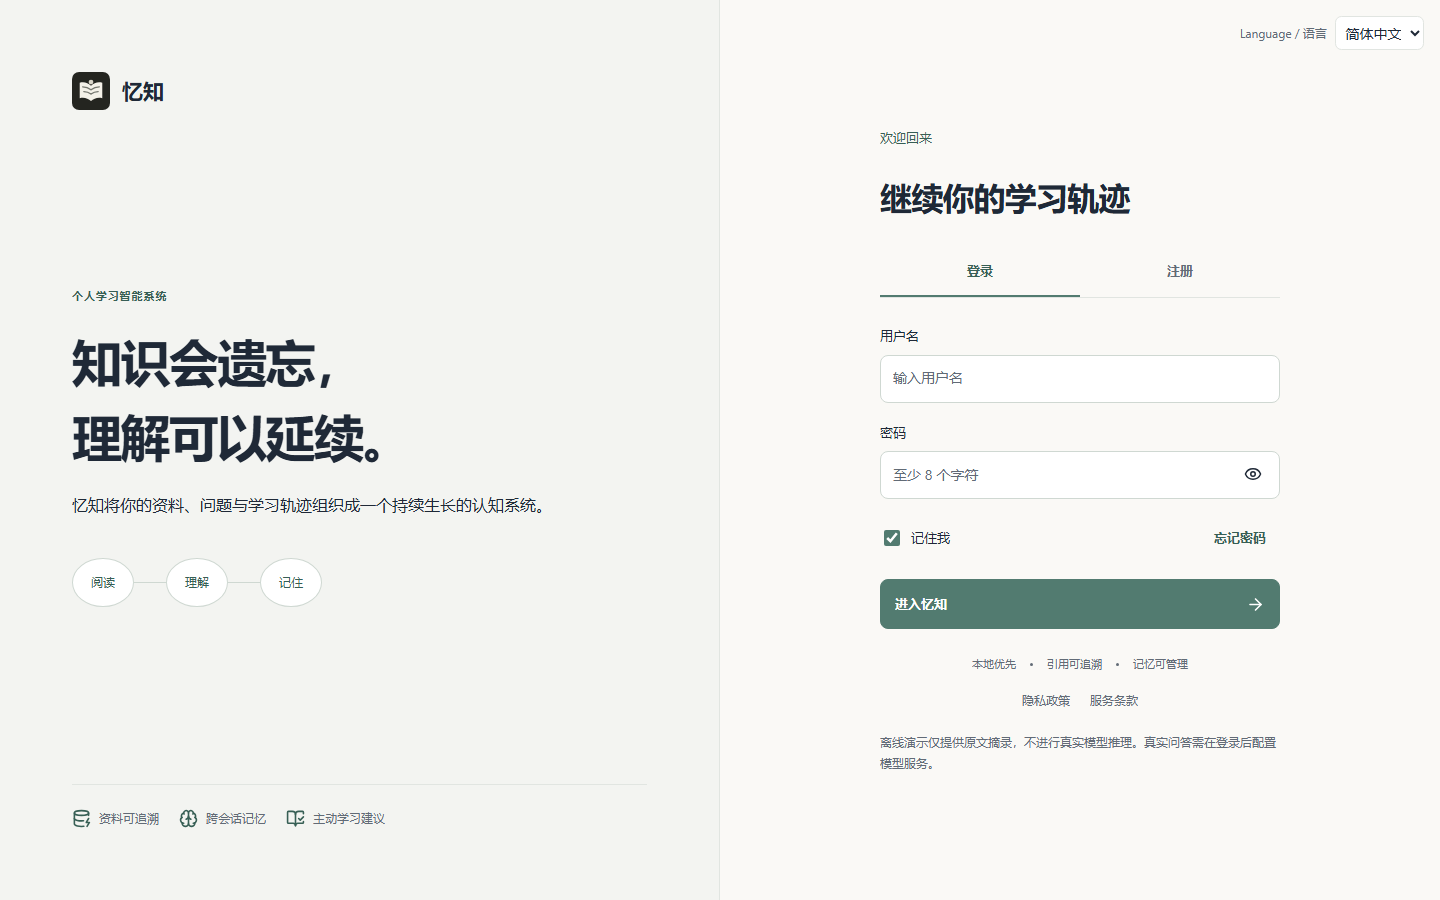
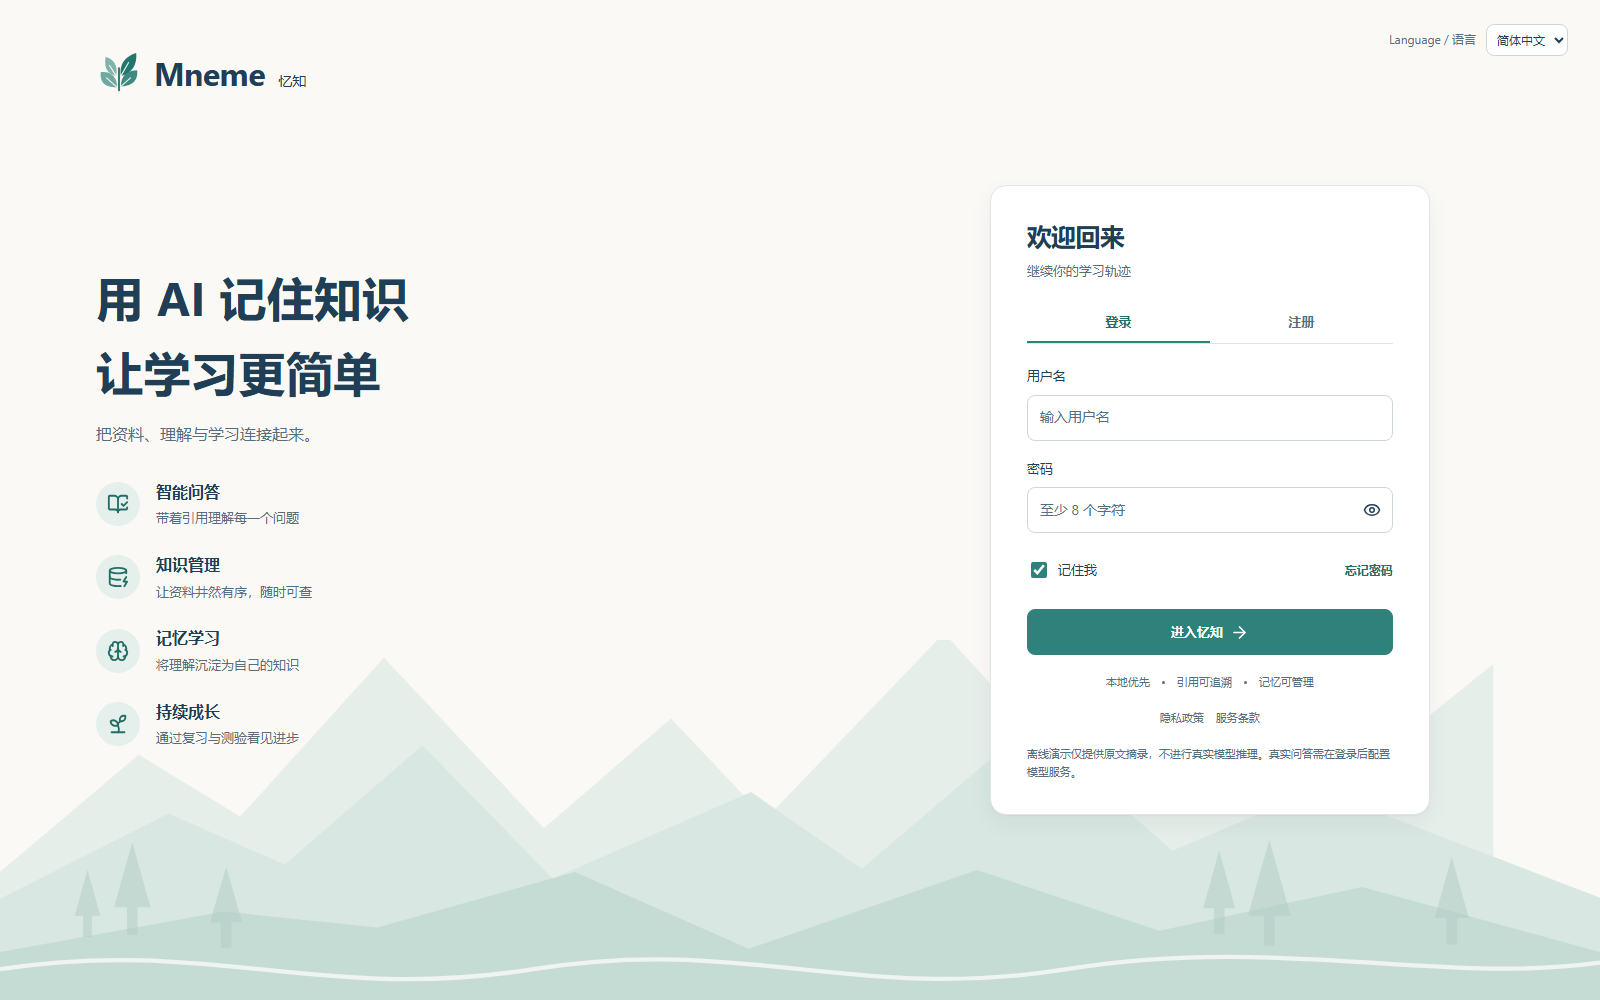
docs: record unified interface acceptance and refresh previews

diff --git a/docs/UNIFIED_UI_ACCEPTANCE_20261030.md b/docs/UNIFIED_UI_ACCEPTANCE_20261030.md
@@ -1,0 +1,91 @@
+# 2026-10-30 统一界面验收记录
+
+本批次依据《Mneme 统一界面设计与源码修改实施总方案》及个人资料、备份恢复、管理员运维、法律页总览图实施。按用户最终确认，图片中的暖白背景与青绿主色优先于正文蓝色建议。原始 DOCX、图片和用户审查记录不改写。
+
+## 页面与参考图对应
+
+| 页面 | 已落实结构 | 保留的真实能力 |
+| --- | --- | --- |
+| 登录 / 注册 / 重置 | 左侧品牌、四项功能说明、低饱和山景；右侧白色认证卡、登录注册标签 | 登录、长期会话、密码显示、重置邮件；注册确认密码与协议确认；失败后恢复按钮并保留输入 |
+| 对话 / 阅读工作台 | 导航、历史、聊天、右侧引用；两页均依第二份文档对话图 | 真实引用、历史会话、流式回答、停止与重试；工作台工具菜单保留阅读、检索调试、分支对比 |
+| 知识库 | 紧凑标题与工具栏、文件表格、右侧文档预览、最近活动 | 文件上传、版本、解析、OCR、筛选、删除及 PDF 实页预览 |
+| 记忆 / 复习 / 测验 | 独立导航；摘要、连续列表、学习卡片与详情栏 | 记忆写入与确认、到期复习评分、测验草稿与反馈 |
+| 任务 / 设置 / 隐私 / 分析 | 同一导航与页头、细边框、适度圆角、青绿交互色 | 任务状态、个人模型配置、偏好、数据操作和实际统计 |
+| 个人资料 | 主区基本资料 / 安全标签、头像与表单；右侧偏好、安全、隐私 | 头像上传、昵称邮箱保存、密码修改、设备会话撤销、语言 / 时区 / 主题 / 通知持久化 |
+| 备份恢复 | 主区标签、归档说明 / 导出记录 / 恢复向导，右侧备份、恢复、隐私入口 | ZIP 下载、校验、冲突预览、确认、新增副本恢复；管理员整站恢复和隔离演练入口保留 |
+| 管理员运维 | 四张真实指标卡、依赖健康、SLO、审计表格；记录每页 10 条 | 临时凭证、刷新 / 锁定、容量限流、任务队列、告警、删除 Saga；分页保留全部已加载记录 |
+| 法律与协议 | 横向文档标签、左目录、右正文、版本日期、下载按钮 | 服务条款、隐私政策、真实仓库 MIT 许可；公开访问与登录后工作区布局；不存在文档提示 |
+
+宽屏检查使用 1440–1672px；自动布局矩阵使用 320、375、760、1024、1440px。引用和知识库详情在 ≤1279px 转抽屉，导航在 ≤1100px 收起，聊天历史在 ≤819px 收起。侧栏打开后有焦点隔离，Escape 关闭并恢复触发点。无横向溢出及 axe 通过不能单独证明视觉还原，因此同时检查实际截图的结构、密度、配色及状态。
+
+## 样式未生效的根因与清理
+
+`main.jsx` 原先先导入 App，再声明 CSS layer 顺序。打包后的组件层比基础层更早首次出现，旧基础规则因层顺序覆盖新组件主题。现在 `layers.css` 是入口第一条导入，明确 `reset, base, components, pages, utilities`。
+
+- 主题变量集中到 `theme.css`，导航由 `app-shell.css` 管理，品牌由 `BrandLockup` 和 `brand.css` 管理。
+- 保留唯一 `mneme-logo.svg`，删除重复叶片资源，更新 README 引用。
+- 删除未使用的 `redesign.css`，清除旧知识库大标题、装饰编号、法律横排目录和多轮主题覆盖；原业务结构与 API 保留。
+- 修复导航的延迟可见性导致初始焦点失败；长用户名可换行，320px 个人资料不再撑开页面。
+- 实际审计有 200 条记录，原全量展开使页面过长；增加分页而不截断可访问数据。
+- GitHub 干净安装发现前端 Docker 上下文缺少仓库 `LICENSE`，导致法律页导入失败。三个部署方案现使用仓库根上下文，由 Dockerfile 专属忽略文件仅纳入前端与许可证，保留单一许可证来源。
+
+## 数据边界与部署配置
+
+参考图片用于布局与视觉，不把示例值当成系统能力：
+
+- 个人备份是手动 ZIP 下载；本次访问的导出记录不等于长期备份历史，也不证明用户设备已保存文件。整站归档由管理员恢复服务提供，不显示虚构的每日 02:00 / 保留 30 天配置。
+- 运维卡片展示依赖就绪数、网关可用率、P95、网关本地磁盘使用率。未配置 Prometheus 时明确显示暂无样本；不将网关磁盘冒充全站容量，不虚构 CPU / 内存百分比或在线时长。
+- 总览中的手机号、二次认证、用户管理没有对应现有 API；本批次沿用文档“不重写后端 / 不伪造数据”的边界，使用真实邮箱、会话安全、依赖健康与 SLO。它们不是本次新增能力。
+- 管理员 API 同时校验 active 管理员角色和至少 32 字符的 `ADMIN_API_TOKEN`。凭证仅在页面内存中临时使用，不写入 localStorage；本地验收临时配置后已恢复原环境。正式管理员恢复还需部署对应 worker 或 GitHub 演练配置，见 [自部署指南](SELF_HOSTING.md) 与 [灾备说明](HOST_RECOVERY.md)。
+- 本批次没有对用户正在使用的数据执行整站恢复。真实个人 ZIP 恢复在合成验收账号中执行，新增副本并核对记录。
+
+## 本批次验证
+
+实现提交 `942b528`，容器构建补充修复 `0b7f1fb`，实现 PR [#42](https://github.com/CoderDongHuang/Mneme/pull/42)。本表为当前批次实测，早期 Java / Python 数字仍保留在历史记录中，不作为此次本地重跑结果。
+
+| 检查 | 结果 |
+| --- | --- |
+| ESLint | 通过 |
+| Vitest | 16 文件、51 项通过，包括注册确认与运维分页 / 锁定 |
+| 生产构建与预算 | 15 个延迟页面；初始 gzip JS 81.96 KiB、CSS 7.50 KiB；聊天 / 工作台 JS 137.01 / 137.54 KiB，低于 140 KiB |
+| 常规 Playwright | 54 通过、16 跳过；跳过项为需要显式开启的真实服务 / 演示测试 |
+| 无障碍子集 | 桌面 / 移动共 42 项通过；包含个人资料与三个法律文档的明暗主题检查 |
+| 真实问答链路 | localhost:3000 注册、上传、入库、模型回答、引用、多轮、刷新与窄屏引用通过 |
+| 真实个人数据 | 每用户模型配置隔离、双语持久化、ZIP 导出 / 校验 / 新增副本恢复通过 |
+| 真实学习链路 | 复习翻面与评分、测验草稿重载、记忆写入、PDF 实页预览通过 |
+| 布局矩阵 | 12 路由 × 5 宽度 × 2 语言 × 2 主题，共 240 组通过 |
+| 管理员及账户补充 | 真实健康 3/3、审计分页、锁定、恢复入口、凭证不落本地存储通过；资料保存重载、账户安全入口、法律目录和下载内容通过 |
+| Docker 干净安装 | GitHub 离线演示完整构建与工作流通过；本机重建因 npm 下载 `ECONNRESET` 未完成，未将其记为通过 |
+| GitHub 整体检查 | [运行 41049645571](https://github.com/CoderDongHuang/Mneme/actions/runs/41049645571) 九项全部通过；覆盖前后端、Windows、OCR、供应链、分布式追踪、离线演示及真实全栈 / 整站恢复 |
+
+文档要求的资料库失败保留与重试、切换请求乱序、会话最后请求生效、模型失败终态、停止、记忆确认失败防重均由既有测试继续验证。本轮未通过删掉断言或降低对比度要求解决问题。中途发现的长用户名溢出、导航焦点及主题层叠失败已修复后重测。
+
+本地证据目录为 `artifacts/unified-ui-20261030/`，包括 `mock-final.log`、`unit-final.log`、`build-final.log`、`matrix-final.log`、`real-e2e.log`、`admin-qa-final.log`。原始真实测试日志包含首次矩阵失败，最终矩阵结果以 `matrix-final.log` 为准。只提交下列选定截图，不上传本地凭证、日志或完整浏览器 trace。
+
+## 实际页面
+
+![登录](images/mneme-auth.png)
+
+![个人资料](images/mneme-profile.png)
+
+![备份恢复](images/mneme-recovery.png)
+
+![管理员运维](images/mneme-operations.png)
+
+![法律与协议](images/mneme-legal.png)
+
+![窄屏暗色个人资料](images/mneme-profile-dark-mobile.png)
+
+对话、知识库、分析与设置截图见 [核心页面记录](FRONTEND_REFERENCE_20261030.md)，已同步本轮主题。
+
+## 复现
+
+在 `frontend` 目录运行 `npm run lint`、`npm test`、`npm run test:e2e`。真实自部署服务运行后：
+
+```powershell
+$env:MNEME_REAL_E2E='true'
+$env:MNEME_E2E_BASE_URL='http://localhost:3000'
+npx playwright test e2e/real-stack.spec.js e2e/report-stack.spec.js --project=桌面端 --workers=1
+```
+
+真实模型模式使用部署配置的供应商处理合成资料。实现 PR 的九项 GitHub 检查已全部通过，实现与文档分批发布；后续检查状态以 PR 页面为准。

diff --git a/docs/PROJECT_STATUS.md b/docs/PROJECT_STATUS.md
@@ -2,7 +2,9 @@
 
 核对日期：2026-10-30，面向个人和小团队私有部署 Beta。当前入口为 [README](../README.md)、[参考图还原记录](FRONTEND_REFERENCE_20261030.md)、[路线图落实记录](ROADMAP_COVERAGE.md)、[最终回归记录](ACCEPTANCE_2026-10-29.md)、[发布说明](RELEASE_NOTES_2026-10-29.md)和 [自部署指南](SELF_HOSTING.md)；旧审计与开发笔记保留为历史记录。
 
-10 月 30 日按视觉参考重排对话、知识库、学习记忆、复习、测验、任务、设置、隐私和分析。阅读工作台统一为历史/聊天/引用，原阅读、检索调试和分支移入工具菜单。真实上传回归发现的引用文件名带存储编号问题也已修复；旧任务未携带原文件名时仍兼容处理。具体证据及未重新设计的页面见上述还原记录。
+10 月 30 日补充统一界面批次：认证、个人资料、恢复、运维和法律页完成参考布局，清理重复样式并修复 CSS layer 导入顺序、移动导航焦点及长用户名溢出。当前页面截图、51 项单元测试、54 项浏览器回归、240 组真实布局矩阵及管理员非破坏性验收见 [统一界面验收记录](UNIFIED_UI_ACCEPTANCE_20261030.md)。
+
+10 月 30 日按视觉参考重排对话、知识库、学习记忆、复习、测验、任务、设置、隐私和分析。阅读工作台统一为历史/聊天/引用，原阅读、检索调试和分支移入工具菜单。真实上传回归发现的引用文件名带存储编号问题也已修复；旧任务未携带原文件名时仍兼容处理。该批核心页面的具体证据见上述还原记录。
 
 10 月 29 日上一批整改的完成项和验证证据见 [全界面验收表](FRONTEND_REVIEW_20261029.md)：15 个延迟加载页面模块、独立复习/测验、中英文偏好、个人加密模型配置与双层恢复。Java 89 项、前端 48 项及生产构建通过；正式 Python 3.11 镜像全量 654 项通过、0 跳过（含 OCR），本机 653 通过/1 个 OCR 环境跳过。新增引用分支/导入集成回归 21 项通过，真实服务布局矩阵 240 组通过。该段及以下初轮测试数字保留历史语境；10 月 30 日的新结果以参考图还原记录为准。
 

diff --git a/docs/FRONTEND_REFERENCE_20261030.md b/docs/FRONTEND_REFERENCE_20261030.md
@@ -14,9 +14,9 @@
 | 设置、数据与隐私 | 第二份文档设置图，1586×992 | 横向标签、横排字段、主题选项、配置状态和数据操作；个人模型密钥、偏好和隐私能力保留。 |
 | 学习分析 | 第二份文档分析图，1672×941 | 摘要、活动柱图、得分折线、知识点和薄弱项、右侧活动日历。图表附可访问明细表，导出与反馈保留。 |
 
-桌面布局以 240px 导航、258px 历史和 380px 引用为基准，正文自动分配剩余空间。1100px 及以下收起导航与详情，600px 及以下收起聊天历史。面板打开时提供焦点管理和背景隔离；816px 窄窗口与手机单独检查。
+桌面布局以 240px 导航、258px 历史和 380px 引用为基准，正文自动分配剩余空间。后续统一界面批次将引用/知识库详情抽屉断点调整到 1279px，全局导航为 1100px，聊天历史为 819px。面板打开时提供焦点管理和背景隔离；816px 窄窗口与手机单独检查。
 
-认证、注册、个人资料、恢复、管理员运维及法律页面的专属布局按用户要求暂不重做。共享导航和主题会应用到工作区，既有功能仍纳入回归。
+用户补充统一实施方案与四页总览图后，认证、注册、个人资料、恢复、管理员运维及法律页已完成专属布局。最新实现、截图与测试结果见 [统一界面验收记录](UNIFIED_UI_ACCEPTANCE_20261030.md)。以下测试数字保留本轮早期核心页面批次的历史语境。
 
 ## 数据与行为边界
 

diff --git a/README.md b/README.md
@@ -2,7 +2,7 @@
 
 > 一个支持结构化 RAG、三级记忆与可追溯引用的开源个人学习助手。
 
-![Mneme logo](frontend/src/assets/mneme-leaf.svg)
+![Mneme logo](frontend/src/assets/mneme-logo.svg)
 
 [![CI](https://github.com/CoderDongHuang/Mneme/actions/workflows/ci.yml/badge.svg)](https://github.com/CoderDongHuang/Mneme/actions/workflows/ci.yml)
 ![Java](https://img.shields.io/badge/Java-17-ED8B00)
@@ -50,7 +50,7 @@ python scripts/demo.py clean --confirm-delete-demo-data
 ![资料与引用](docs/images/mneme-rag-chat.png)
 ![知识库与原文预览](docs/images/mneme-knowledge.png)
 
-工作区截图来自真实本地服务与合成验收资料；2026-10-30 的布局对应和测试范围见 [参考图还原记录](docs/FRONTEND_REFERENCE_20261030.md)。离线演示的实际截图由 `Offline demo clean install` CI 产物保存。
+截图来自真实本地服务与合成验收资料。登录、个人资料、备份恢复、管理员运维及法律页已统一为暖白与青绿主题；页面对应、实际数据边界与本轮测试见 [统一界面验收记录](docs/UNIFIED_UI_ACCEPTANCE_20261030.md)，此前核心页面的实现记录见 [参考图还原记录](docs/FRONTEND_REFERENCE_20261030.md)。离线演示截图由 `Offline demo clean install` CI 产物保存。
 
 ## 功能概览
 
